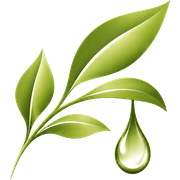
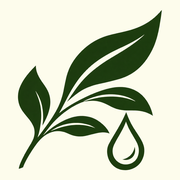
initial commit

diff --git a/app/components/Navbar.tsx b/app/components/Navbar.tsx
@@ -1,6 +1,6 @@
 import Image from "next/image";
 import Link from "next/link";
-import logo from "../images/logo-mark.webp";
+import logo from "../images/logo.webp";
 import "../styles/navbar.css";
 
 const links = [
@@ -16,7 +16,7 @@ export default function Navbar() {
       <Link href="/" className="navbar__brand">
         <Image
           src={logo}
-          alt="Aurelia"
+          alt="Dewdrop"
           className="navbar__logo"
           priority
         />

diff --git a/app/layout.tsx b/app/layout.tsx
@@ -16,8 +16,8 @@ const inter = Inter({
 });
 
 export const metadata: Metadata = {
-  title: "Aurelia — Botanical Skincare",
-  description: "Aurelia botanical skincare.",
+  title: "Dewdrop — Botanical Skincare",
+  description: "Dewdrop botanical skincare.",
 };
 
 export default function RootLayout({ children }: LayoutProps<"/">) {

diff --git a/app/components/Footer.tsx b/app/components/Footer.tsx
@@ -110,7 +110,7 @@ export default function Footer() {
       </div>
 
       <div className="footer__bottom">
-        <span>© 2026 Aurelia. All rights reserved.</span>
+        <span>© 2026 Dewdrop. All rights reserved.</span>
         <span>Botanical skincare, made with care.</span>
       </div>
     </footer>
